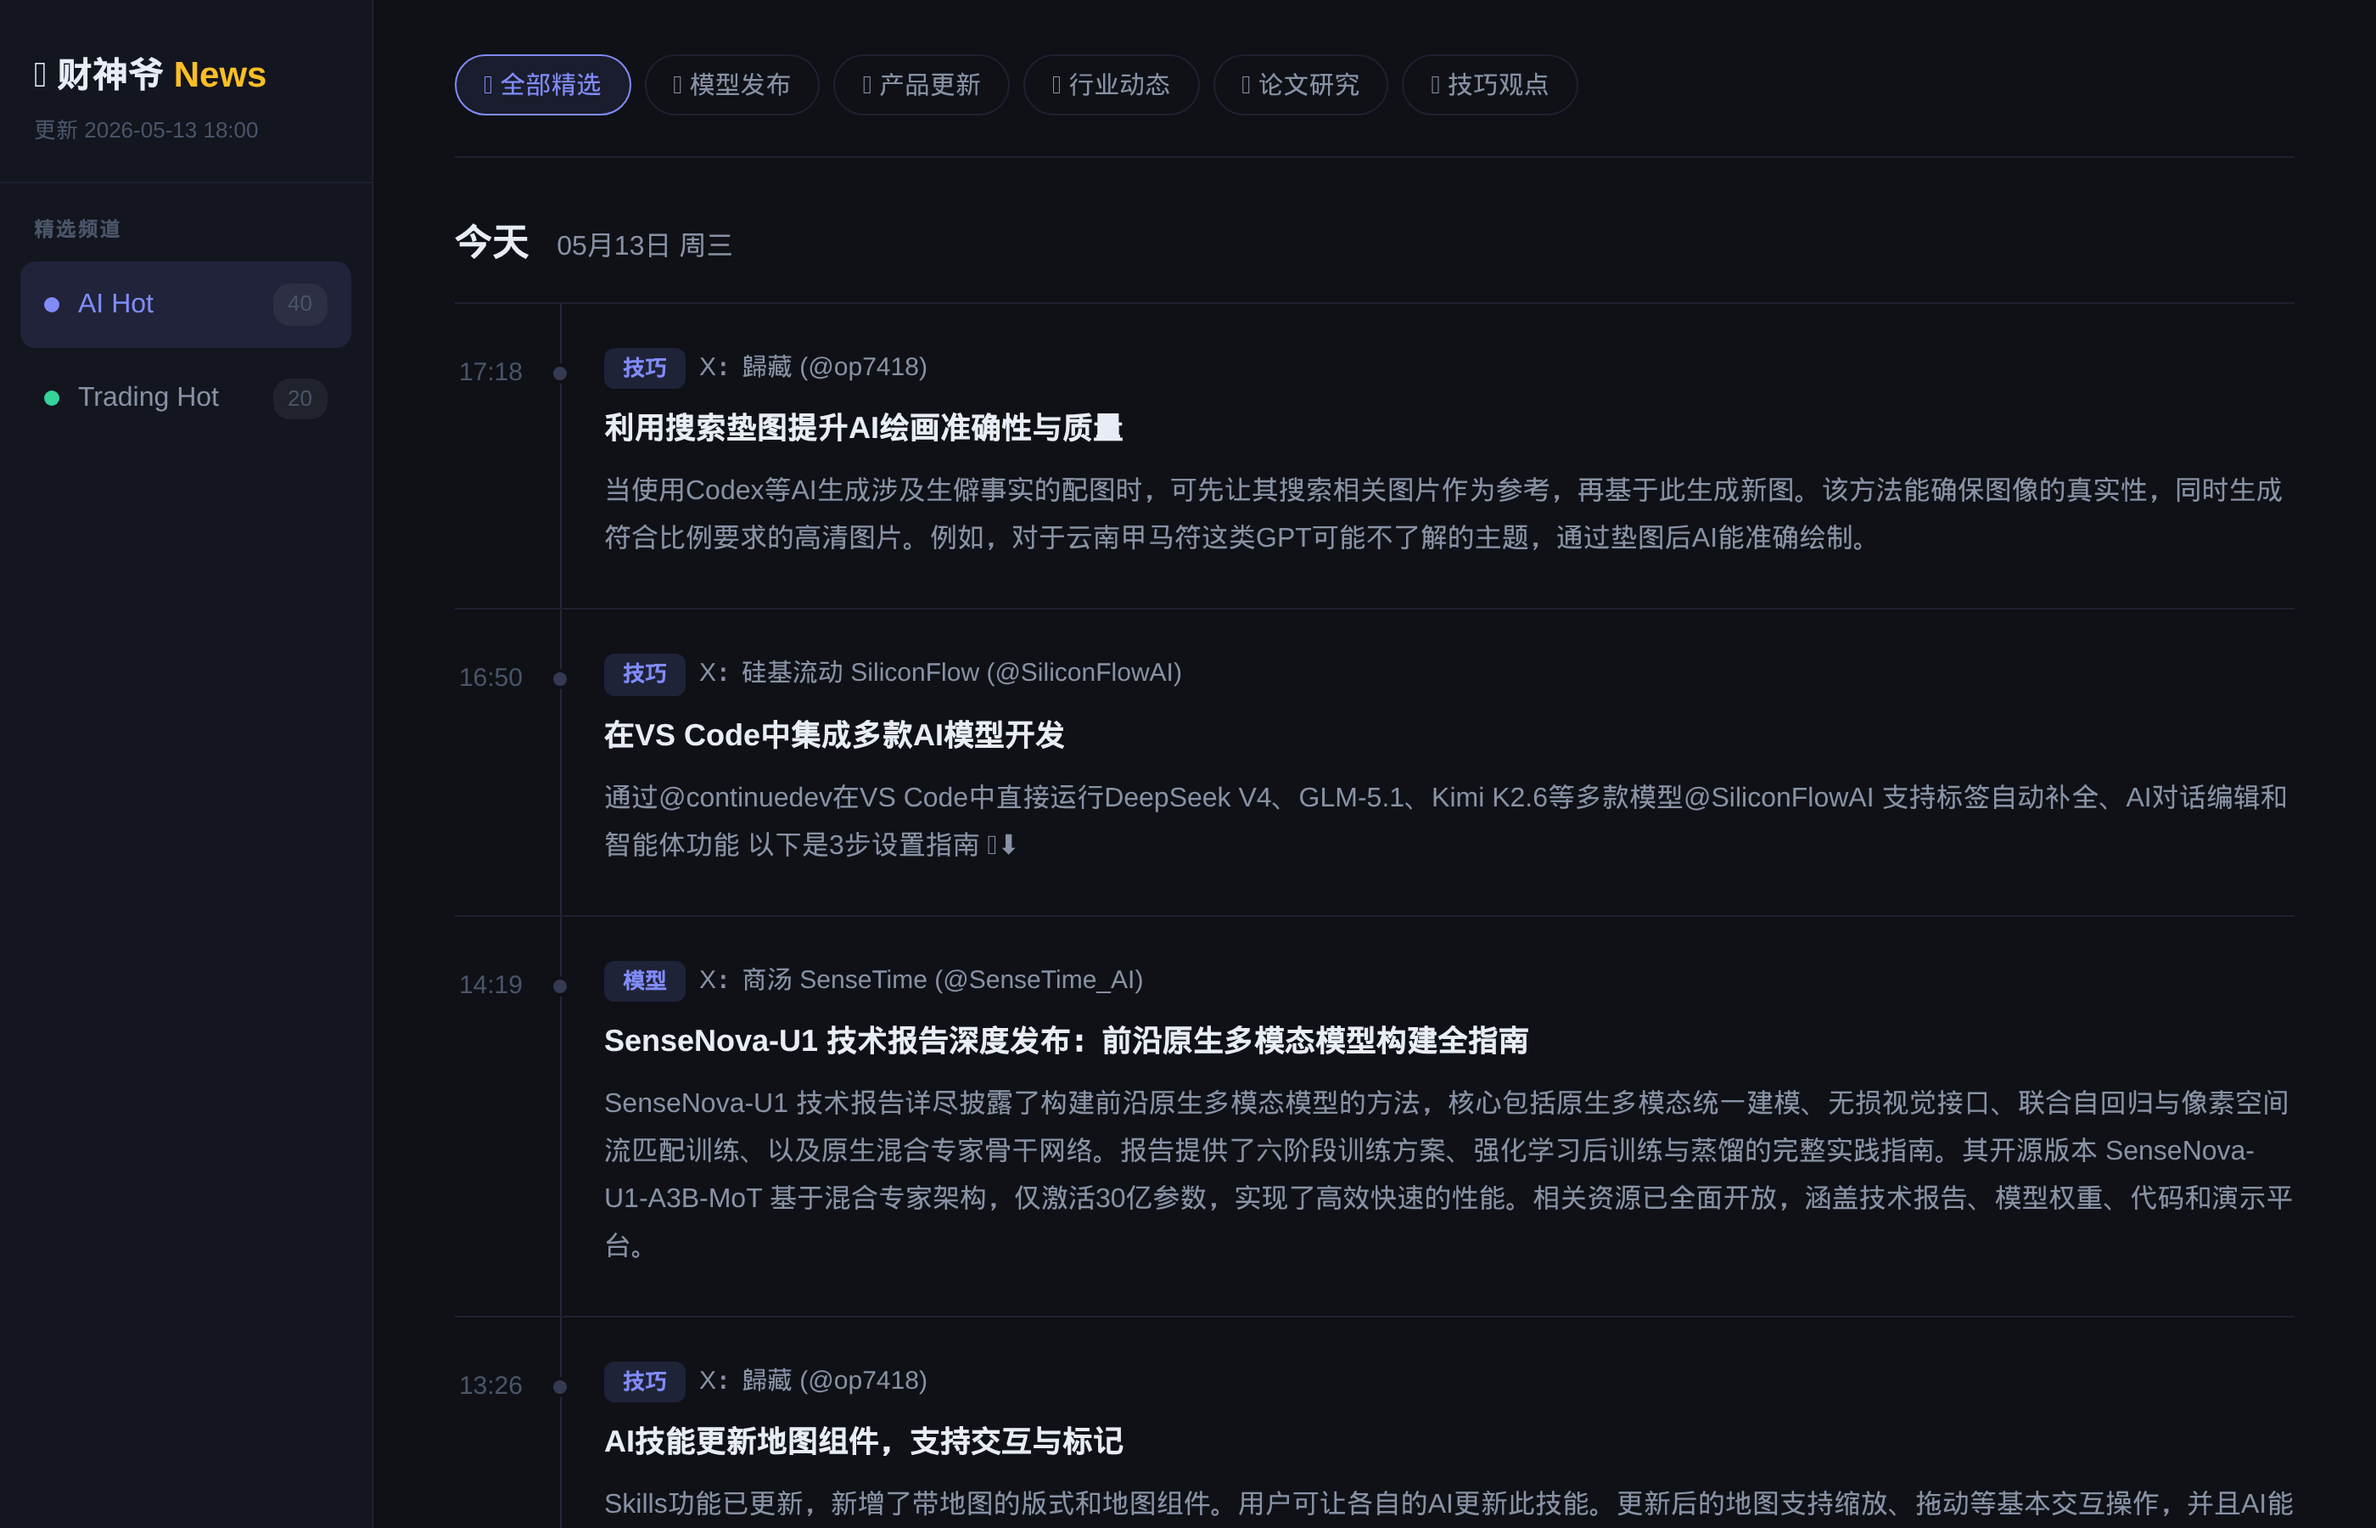
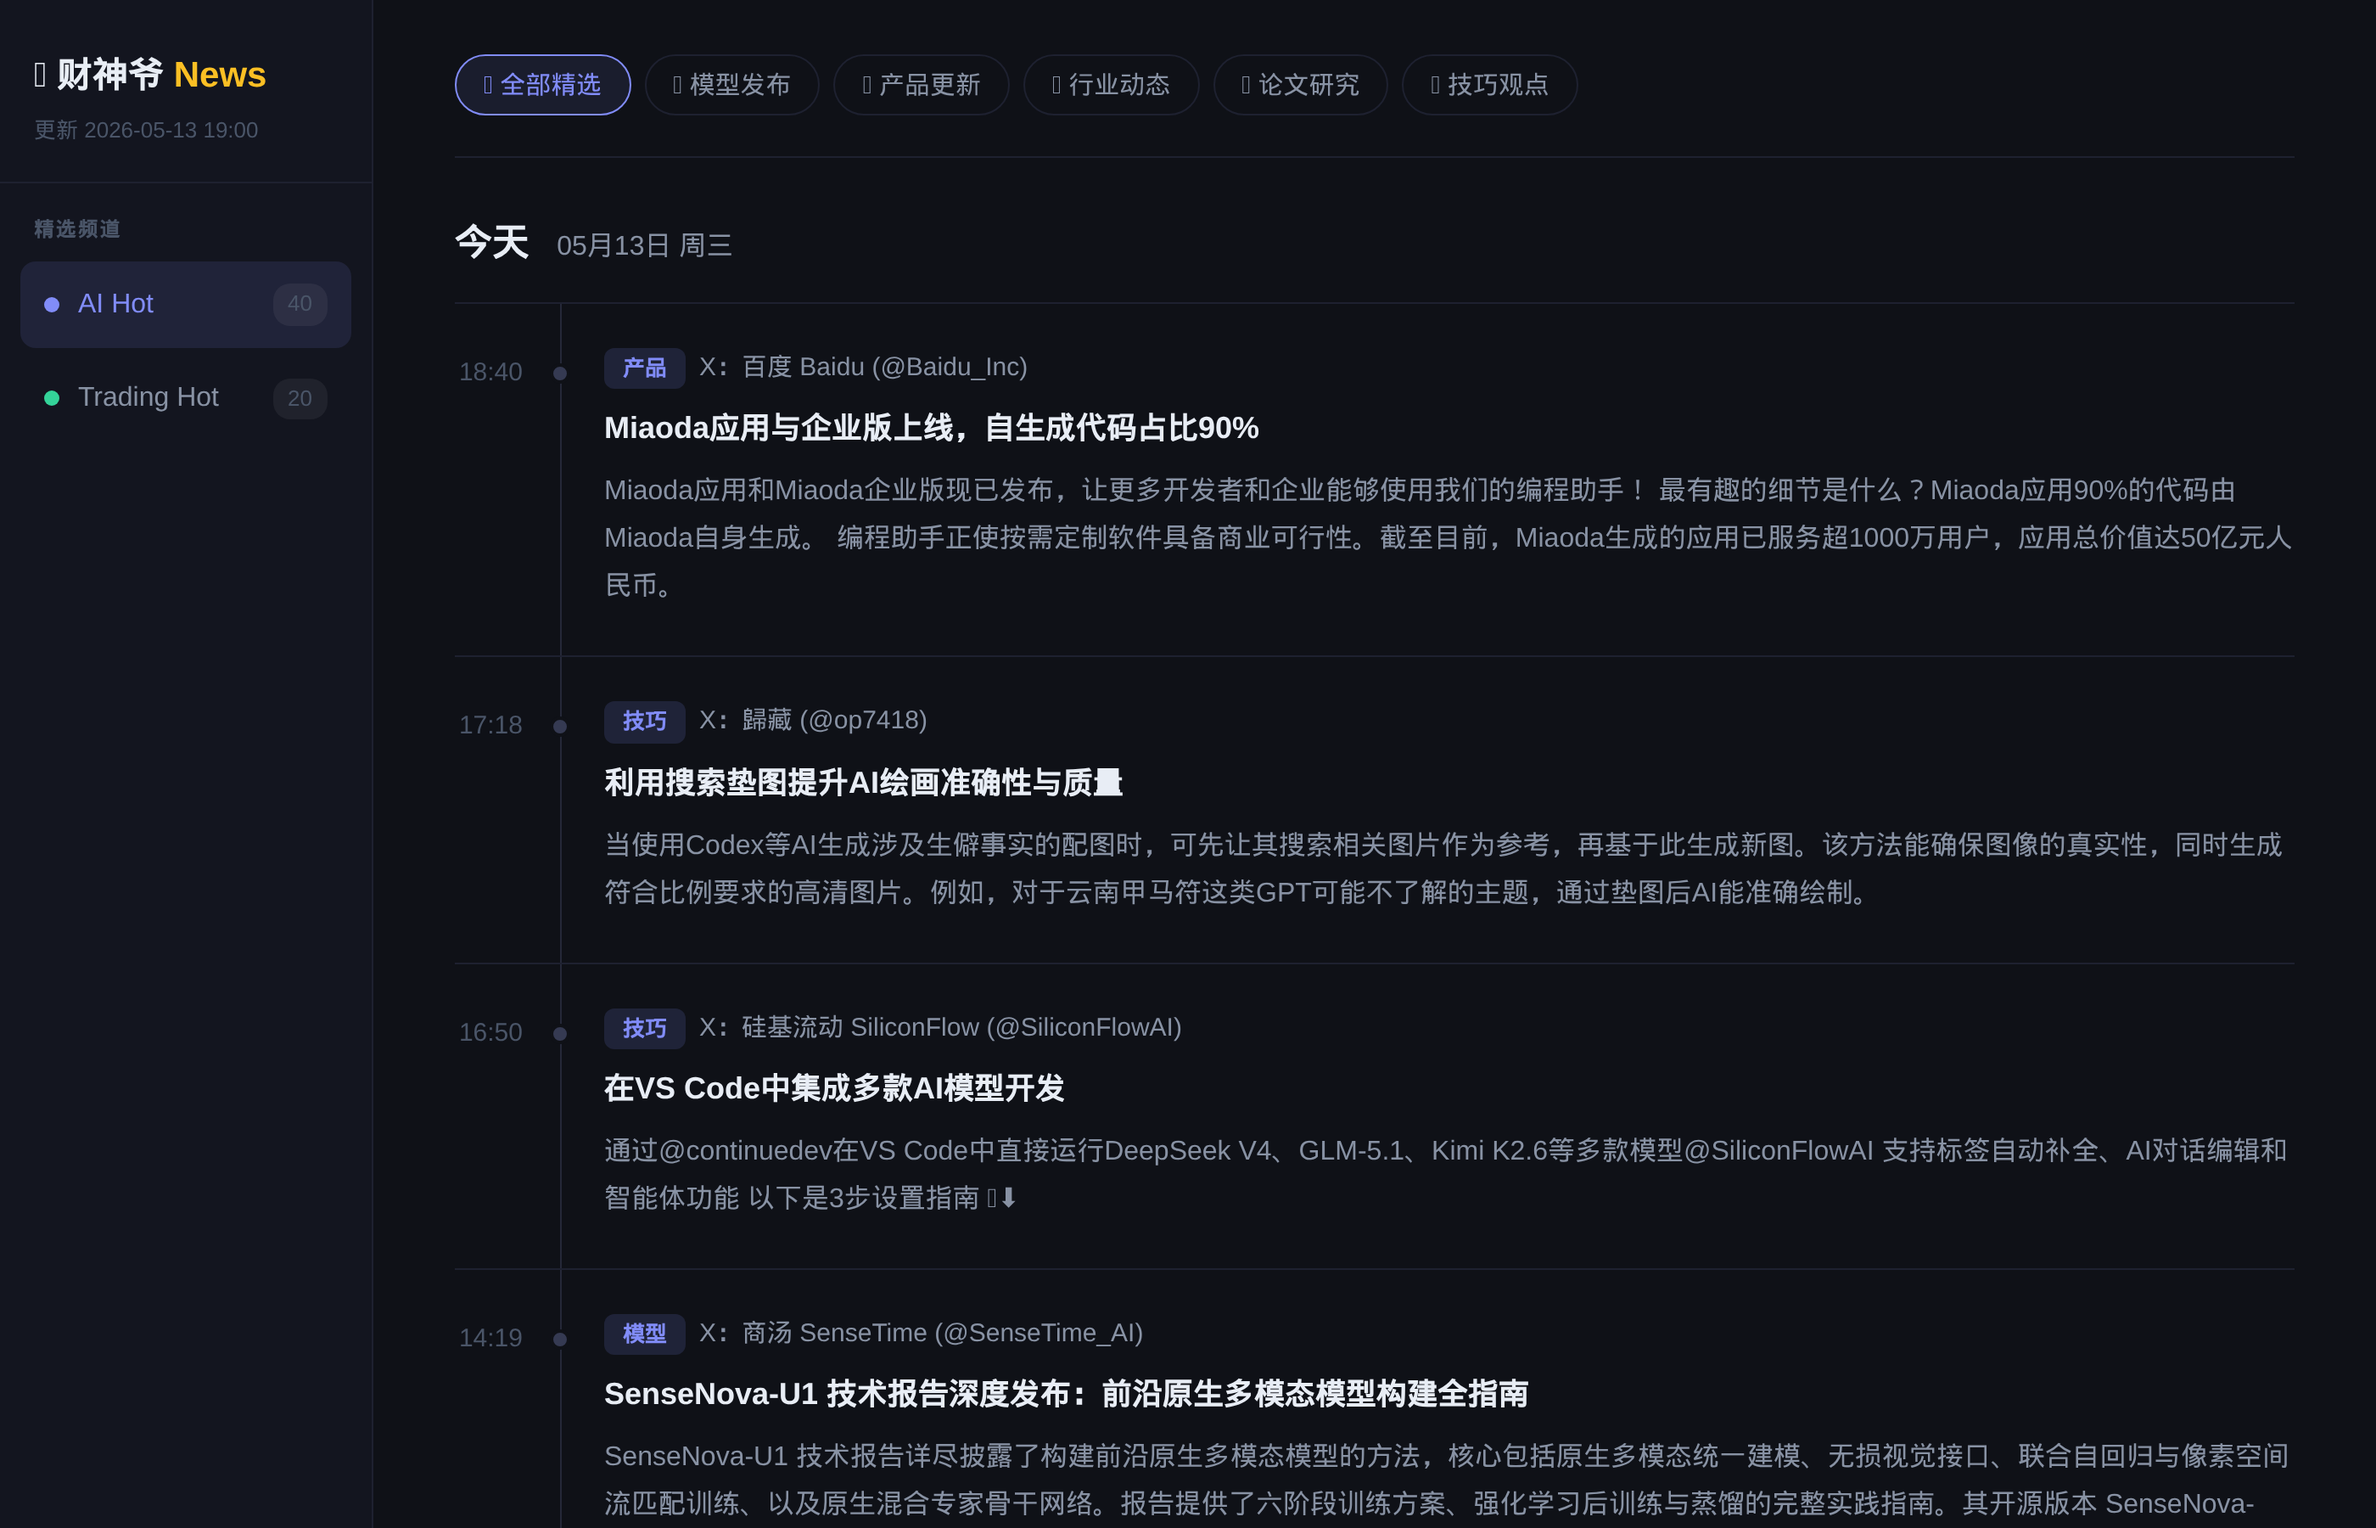
auto update 2026-05-13 19:00

Changed region(s): [[0.2486, 0.6222, 0.9632, 0.9956], [0.2486, 0.2178, 0.9632, 0.5911], [0.1864, 0.6222, 0.2175, 0.6533]]

diff --git a/index.html b/index.html
@@ -106,7 +106,7 @@ body{font-family:-apple-system,BlinkMacSystemFont,"Segoe UI","PingFang SC","Micr
 <body>
 <aside class="sb">
   <div class="sb-logo">💰 财神爷 <span>News</span>
-    <div class="sb-up">更新 2026-05-13 18:00</div>
+    <div class="sb-up">更新 2026-05-13 19:00</div>
   </div>
   <nav class="sb-nav">
     <div class="nav-lbl">精选频道</div>
@@ -124,6 +124,19 @@ body{font-family:-apple-system,BlinkMacSystemFont,"Segoe UI","PingFang SC","Micr
         <div class="dgroup">
       <div class="dheader">今天 <span class='dsub'>05月13日 周三</span></div>
       <div class="ilist">
+      <div class="item" data-cats="ai-products">
+        <div class="item-time">18:40</div>
+        <div class="item-body">
+          <div class="item-meta"><span class="badge badge-ai">产品</span><span class="isrc">X：百度 Baidu (@Baidu_Inc)</span></div>
+          <a class="item-title" href="https://x.com/Baidu_Inc/status/2054511974172557463" target="_blank" rel="noopener">Miaoda应用与企业版上线，自生成代码占比90%</a>
+          <div class="item-summary">Miaoda应用和Miaoda企业版现已发布，让更多开发者和企业能够使用我们的编程助手！
+
+最有趣的细节是什么？Miaoda应用90%的代码由Miaoda自身生成。
+
+编程助手正使按需定制软件具备商业可行性。截至目前，Miaoda生成的应用已服务超1000万用户，应用总价值达50亿元人民币。</div>
+        </div>
+      </div>
+
       <div class="item" data-cats="tip">
         <div class="item-time">17:18</div>
         <div class="item-body">
@@ -522,15 +535,6 @@ https：//x.com/browser_use/status/2054330495249564094/video/1</div>
 我们已获得21亿美元新资金，正在加速实现这一目标。</div>
         </div>
       </div>
-
-      <div class="item" data-cats="ai-models">
-        <div class="item-time">21:24</div>
-        <div class="item-body">
-          <div class="item-meta"><span class="badge badge-ai">模型</span><span class="isrc">X：Microsoft Research (@MSFTResearch)</span></div>
-          <a class="item-title" href="https://x.com/MSFTResearch/status/2054191008091418998" target="_blank" rel="noopener">材料科学AI多任务模型突破</a>
-          <div class="item-summary">MatterSim正在拓展AI在材料科学中的应用边界--从更快速的大规模模拟，到全新多任务模型MatterSim-MT，可模拟超越势能面的多种物性。https：//msft.it/6017vPamT</div>
-        </div>
-      </div>
       </div>
     </div>
   </div>
@@ -539,7 +543,7 @@ https：//x.com/browser_use/status/2054330495249564094/video/1</div>
         <div class="dgroup">
       <div class="dheader">今天 <span class='dsub'>05月13日 周三</span></div>
       <div class="ilist">
-      <div class="item" data-cats="top crypto">
+      <div class="item" data-cats="crypto top">
         <div class="item-time">04:56</div>
         <div class="item-body">
           <div class="item-meta"><span class="badge badge-trading">加密</span><span class="score-badge">72分</span><span class="isrc">The Block</span><span class="ticker">$C</span><span class="ticker">$COIN</span></div>
@@ -549,7 +553,7 @@ https：//x.com/browser_use/status/2054330495249564094/video/1</div>
         </div>
       </div>
 
-      <div class="item" data-cats="top macro">
+      <div class="item" data-cats="macro top">
         <div class="item-time">04:55</div>
         <div class="item-body">
           <div class="item-meta"><span class="badge badge-trading">宏观利率</span><span class="score-badge">77分</span><span class="isrc">华尔街见闻</span></div>
@@ -559,7 +563,7 @@ https：//x.com/browser_use/status/2054330495249564094/video/1</div>
         </div>
       </div>
 
-      <div class="item" data-cats="ai_tech top crypto">
+      <div class="item" data-cats="ai_tech crypto top">
         <div class="item-time">04:46</div>
         <div class="item-body">
           <div class="item-meta"><span class="badge badge-trading">加密</span><span class="score-badge">68分</span><span class="isrc">Decrypt</span><span class="ticker">$F</span></div>
@@ -599,7 +603,7 @@ https：//x.com/browser_use/status/2054330495249564094/video/1</div>
         </div>
       </div>
 
-      <div class="item" data-cats="top geo">
+      <div class="item" data-cats="geo top">
         <div class="item-time">04:14</div>
         <div class="item-body">
           <div class="item-meta"><span class="badge badge-trading">市场异动</span><span class="score-badge">67分</span><span class="isrc">华尔街见闻</span></div>
@@ -609,7 +613,7 @@ https：//x.com/browser_use/status/2054330495249564094/video/1</div>
         </div>
       </div>
 
-      <div class="item" data-cats="ai_tech top crypto">
+      <div class="item" data-cats="ai_tech crypto top">
         <div class="item-time">03:45</div>
         <div class="item-body">
           <div class="item-meta"><span class="badge badge-trading">加密</span><span class="score-badge">69分</span><span class="isrc">Decrypt</span><span class="ticker">$BTC</span><span class="ticker">$MARA</span></div>
@@ -629,7 +633,7 @@ https：//x.com/browser_use/status/2054330495249564094/video/1</div>
         </div>
       </div>
 
-      <div class="item" data-cats="top geo">
+      <div class="item" data-cats="geo top">
         <div class="item-time">02:43</div>
         <div class="item-body">
           <div class="item-meta"><span class="badge badge-trading">市场异动</span><span class="score-badge">72分</span><span class="isrc">CNBC Top News</span><span class="ticker">$C</span></div>
@@ -649,7 +653,7 @@ https：//x.com/browser_use/status/2054330495249564094/video/1</div>
         </div>
       </div>
 
-      <div class="item" data-cats="top geo">
+      <div class="item" data-cats="geo top">
         <div class="item-time">02:11</div>
         <div class="item-body">
           <div class="item-meta"><span class="badge badge-trading">市场异动</span><span class="score-badge">72分</span><span class="isrc">CNBC Top News</span><span class="ticker">$C</span></div>
@@ -659,7 +663,7 @@ https：//x.com/browser_use/status/2054330495249564094/video/1</div>
         </div>
       </div>
 
-      <div class="item" data-cats="top macro geo">
+      <div class="item" data-cats="macro geo top">
         <div class="item-time">02:10</div>
         <div class="item-body">
           <div class="item-meta"><span class="badge badge-trading">市场异动</span><span class="score-badge">72分</span><span class="isrc">CNBC Top News</span><span class="ticker">$C</span></div>
@@ -679,7 +683,7 @@ https：//x.com/browser_use/status/2054330495249564094/video/1</div>
         </div>
       </div>
 
-      <div class="item" data-cats="top macro">
+      <div class="item" data-cats="macro top">
         <div class="item-time">01:33</div>
         <div class="item-body">
           <div class="item-meta"><span class="badge badge-trading">宏观利率</span><span class="score-badge">71分</span><span class="isrc">CNBC Markets</span><span class="ticker">$F</span></div>
@@ -699,7 +703,7 @@ https：//x.com/browser_use/status/2054330495249564094/video/1</div>
         </div>
       </div>
 
-      <div class="item" data-cats="top macro">
+      <div class="item" data-cats="macro top">
         <div class="item-time">00:38</div>
         <div class="item-body">
           <div class="item-meta"><span class="badge badge-trading">市场异动</span><span class="score-badge">67分</span><span class="isrc">CNBC Top News</span><span class="ticker">$C</span><span class="ticker">$F</span></div>
@@ -723,7 +727,7 @@ https：//x.com/browser_use/status/2054330495249564094/video/1</div>
         </div>
       </div>
 
-      <div class="item" data-cats="top crypto">
+      <div class="item" data-cats="crypto top">
         <div class="item-time">22:37</div>
         <div class="item-body">
           <div class="item-meta"><span class="badge badge-trading">加密</span><span class="score-badge">70分</span><span class="isrc">Decrypt</span><span class="ticker">$C</span></div>
@@ -733,7 +737,7 @@ https：//x.com/browser_use/status/2054330495249564094/video/1</div>
         </div>
       </div>
 
-      <div class="item" data-cats="top crypto">
+      <div class="item" data-cats="crypto top">
         <div class="item-time">19:55</div>
         <div class="item-body">
           <div class="item-meta"><span class="badge badge-trading">加密</span><span class="score-badge">75分</span><span class="isrc">Decrypt</span><span class="ticker">$C</span></div>
